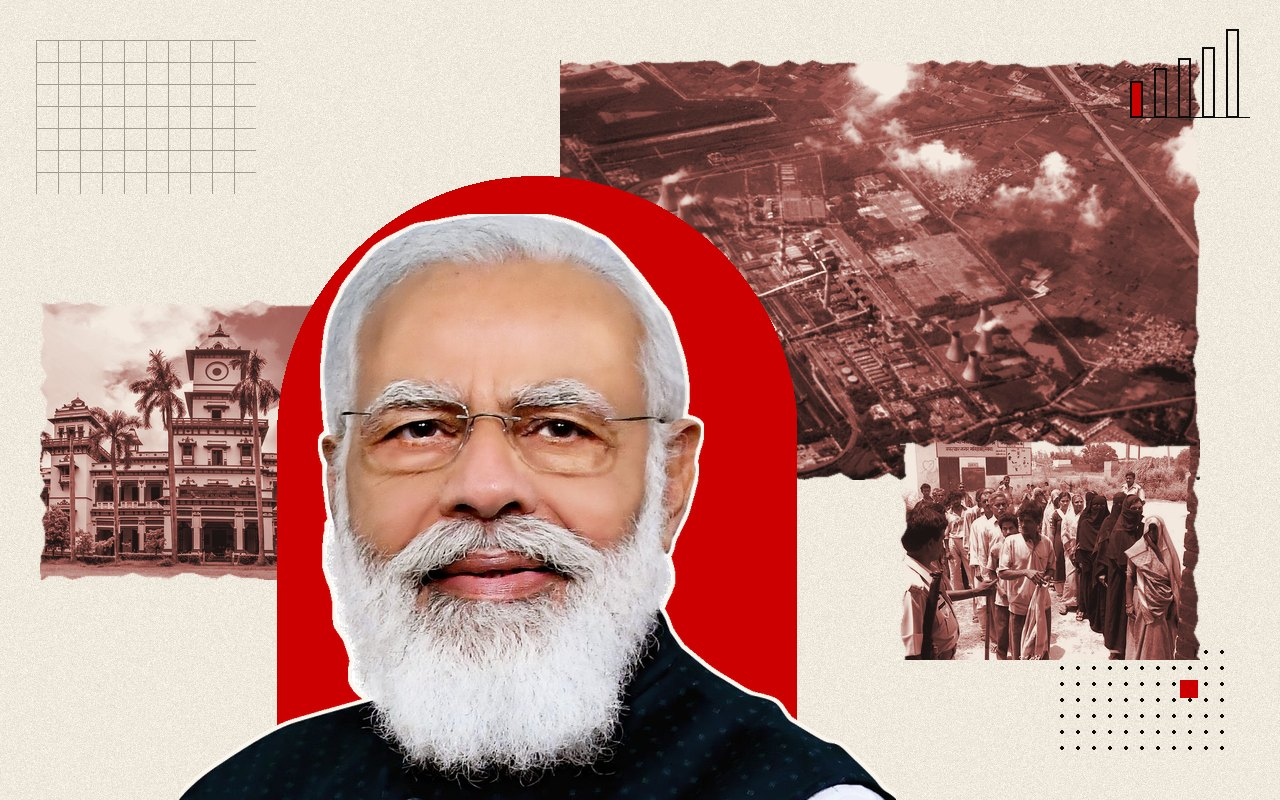
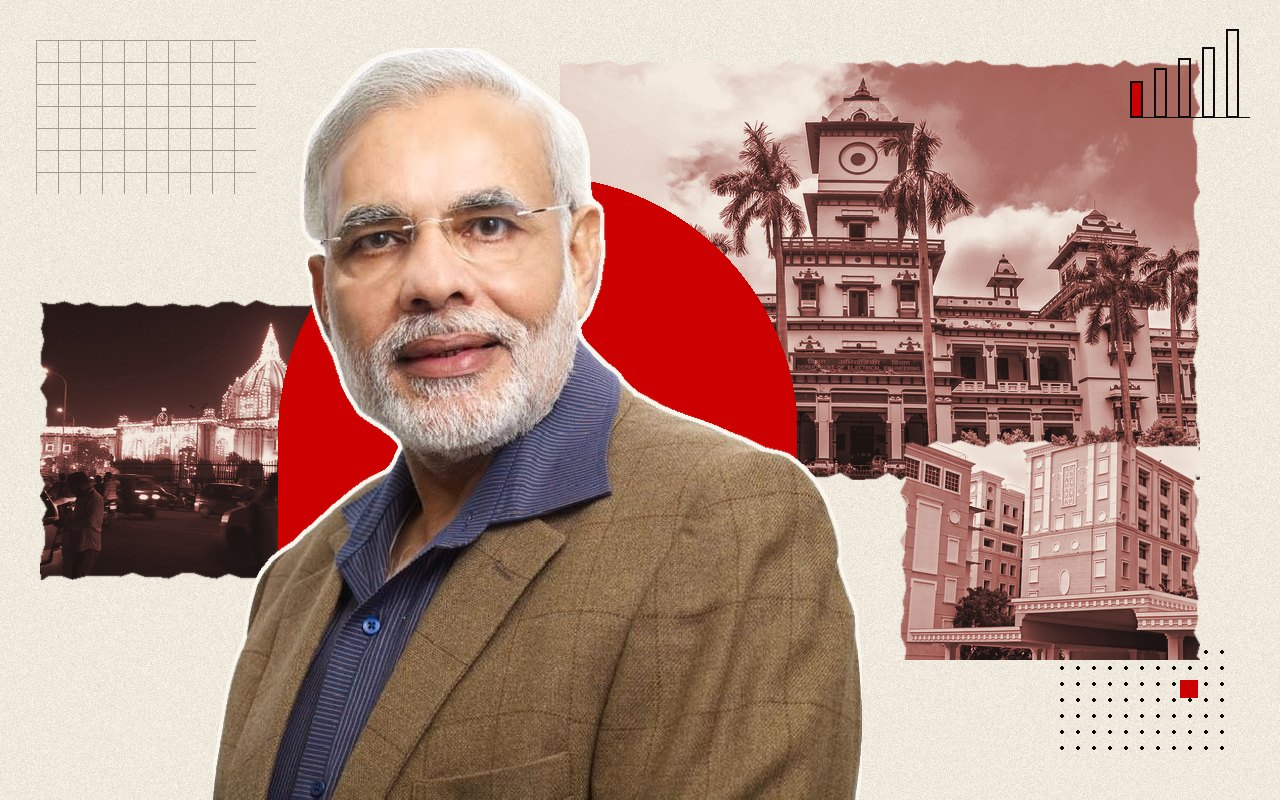
Hourly 14:00 IST (second publish): collage fix for modi-kaushal-deekshant-samaroh-lucknow-iti-52-toppers
The first collage carried a thermal power station and a polling-station queue from unrelated stories. Dropped the unrelated Nitish Setu link from the story's related list, marked those two scene photos notile, and remade the collage (Lucknow Vidhan Bhawan, IIT BHU campus, a tech campus).

Claude-Session: https://claude.ai/code/session_01C3zerV2VhuJDDX8tAxVzBa

diff --git a/content/hi/news/modi-kaushal-deekshant-samaroh-lucknow-iti-52-toppers.md b/content/hi/news/modi-kaushal-deekshant-samaroh-lucknow-iti-52-toppers.md
@@ -21,7 +21,7 @@ hero:
   alt: "प्रधानमंत्री नरेंद्र मोदी (फाइल फोटो)"
   overlay:
     value: "'आईटीआई, आईआईटी से कम नहीं'"
-related: [pm-setu-1195-crore-five-iti-clusters, modi-ficci-agm-india-first-quality-gandhi-swadeshi, nitish-setu-modi-dedicates-vaishali-34470-crore-tejashwi-credit-row]
+related: [pm-setu-1195-crore-five-iti-clusters, modi-ficci-agm-india-first-quality-gandhi-swadeshi]
 infographic:
   kicker: "कौशल दीक्षांत समारोह, लखनऊ"
   headline: "मोदी: आईटीआई प्रशिक्षुओं का सम्मान कीजिए"

diff --git a/content/en/news/modi-kaushal-deekshant-samaroh-lucknow-iti-52-toppers.md b/content/en/news/modi-kaushal-deekshant-samaroh-lucknow-iti-52-toppers.md
@@ -20,7 +20,7 @@ hero:
   alt: "Prime Minister Narendra Modi (file photo)"
   overlay:
     value: "'ITI is no less than IIT'"
-related: [pm-setu-1195-crore-five-iti-clusters, modi-ficci-agm-india-first-quality-gandhi-swadeshi, nitish-setu-modi-dedicates-vaishali-34470-crore-tejashwi-credit-row]
+related: [pm-setu-1195-crore-five-iti-clusters, modi-ficci-agm-india-first-quality-gandhi-swadeshi]
 infographic:
   kicker: "Skill convocation, Lucknow"
   headline: "Modi asks India to respect ITI trainees"
